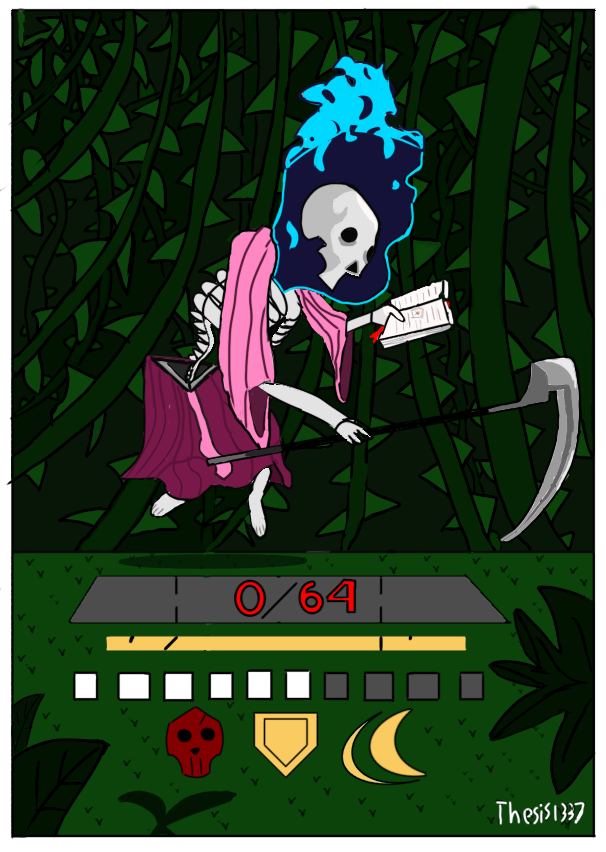
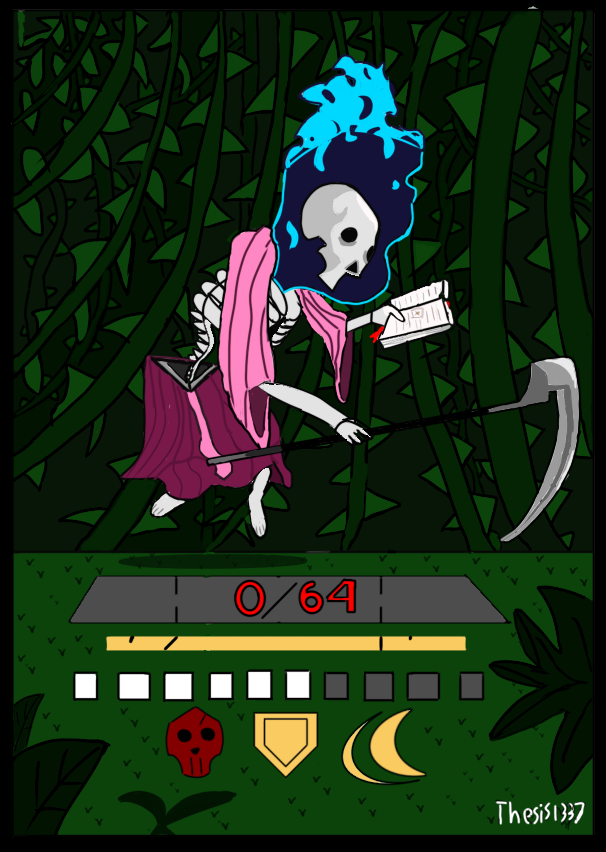
Added base Mad Science Power Updated Right Hand Hand Updated Death's Door (and alt)
Made alt arts be wrapped in a try catch in case they throw (ex in compendium)

Changed region(s): [[0.0, 0.0, 1.0, 1.0]]

diff --git a/HideDetailsModCode/AlternateArts/Cards/Event/MadScienceArt.cs b/HideDetailsModCode/AlternateArts/Cards/Event/MadScienceArt.cs
@@ -9,6 +9,7 @@ public class MadScienceArt : AlternateCardArt<MadScience>
 {
     static CardImg Attack { get; } = new("event/mad_science_attack");
     static CardImg Skill { get; } = new("event/mad_science_skill");
+    static CardImg Power { get; } = new("event/mad_science_power");
     static CardImg Curious { get; } = new("event/mad_science_power_curious");
     static CardImg Expertise { get; } = new("event/mad_science_power_expertise");
     static CardImg Improvement { get; } = new("event/mad_science_power_improvement");
@@ -33,7 +34,7 @@ public class MadScienceArt : AlternateCardArt<MadScience>
             {
                 CardType.Attack => Attack,
                 CardType.Skill => Skill,
-                CardType.Power => Expertise, // placeholder
+                CardType.Power => Power,
                 _ => Attack,
             },
         };

diff --git a/HideDetailsModCode/AlternateArts/AlternateCardArt.cs b/HideDetailsModCode/AlternateArts/AlternateCardArt.cs
@@ -105,7 +105,18 @@ public abstract class AlternateCardArt
         .Where(art => art.Exists);
     static IEnumerable<(CardImg? Base, CardImg? Upgraded)> GetArtsFor(CardModel card)
     => Arts
-        .Select(art => art.GetSplit(card))
+        .Select(art =>
+        {
+            try
+            {
+                return art.GetSplit(card);
+            }
+            catch (Exception e)
+            {
+                MainFile.Logger.Error($"Error in GetSplit for {card.Id.Entry}:\n{e}");
+                return null;
+            }
+        })
         .Distinct()
         .OfType<(CardImg? Base, CardImg? Upgraded)>();
 
